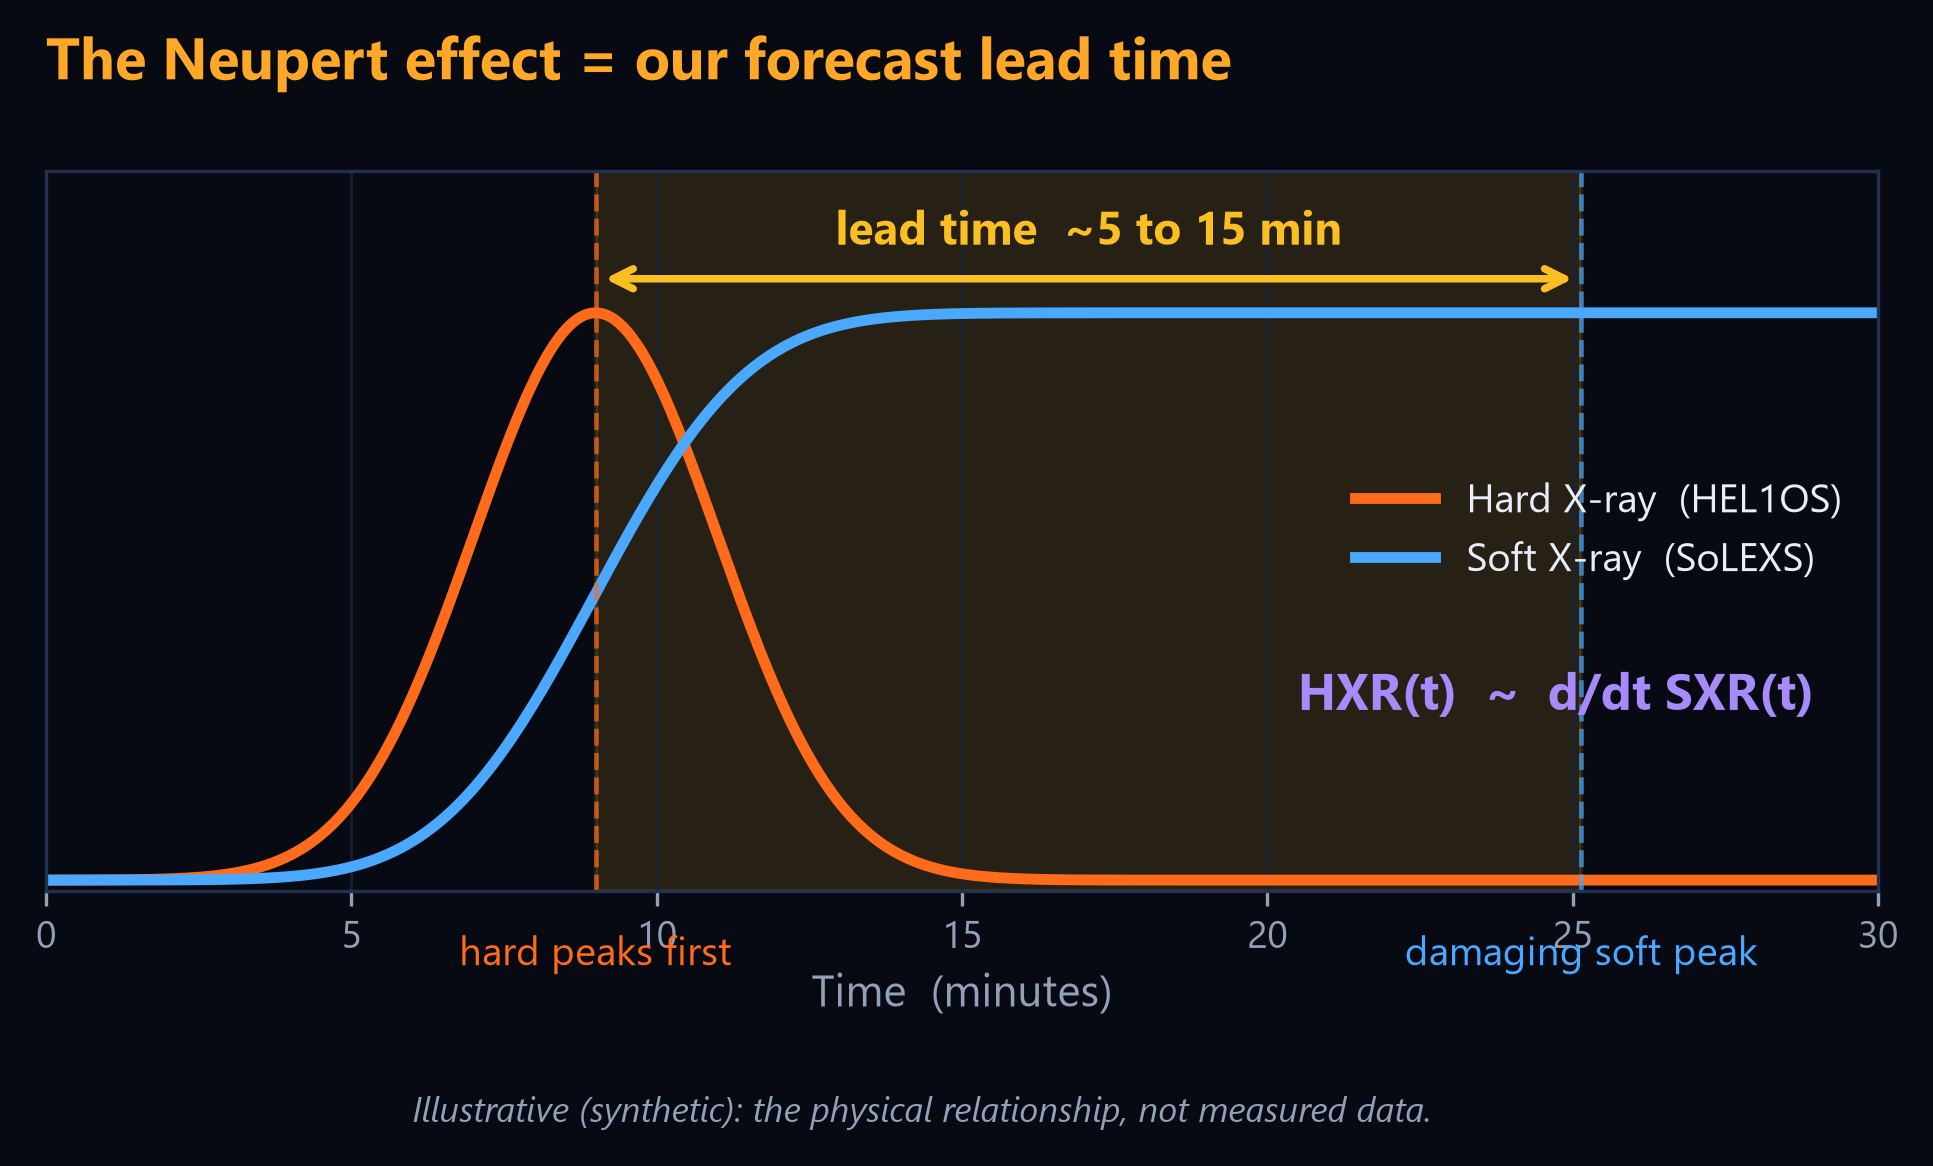
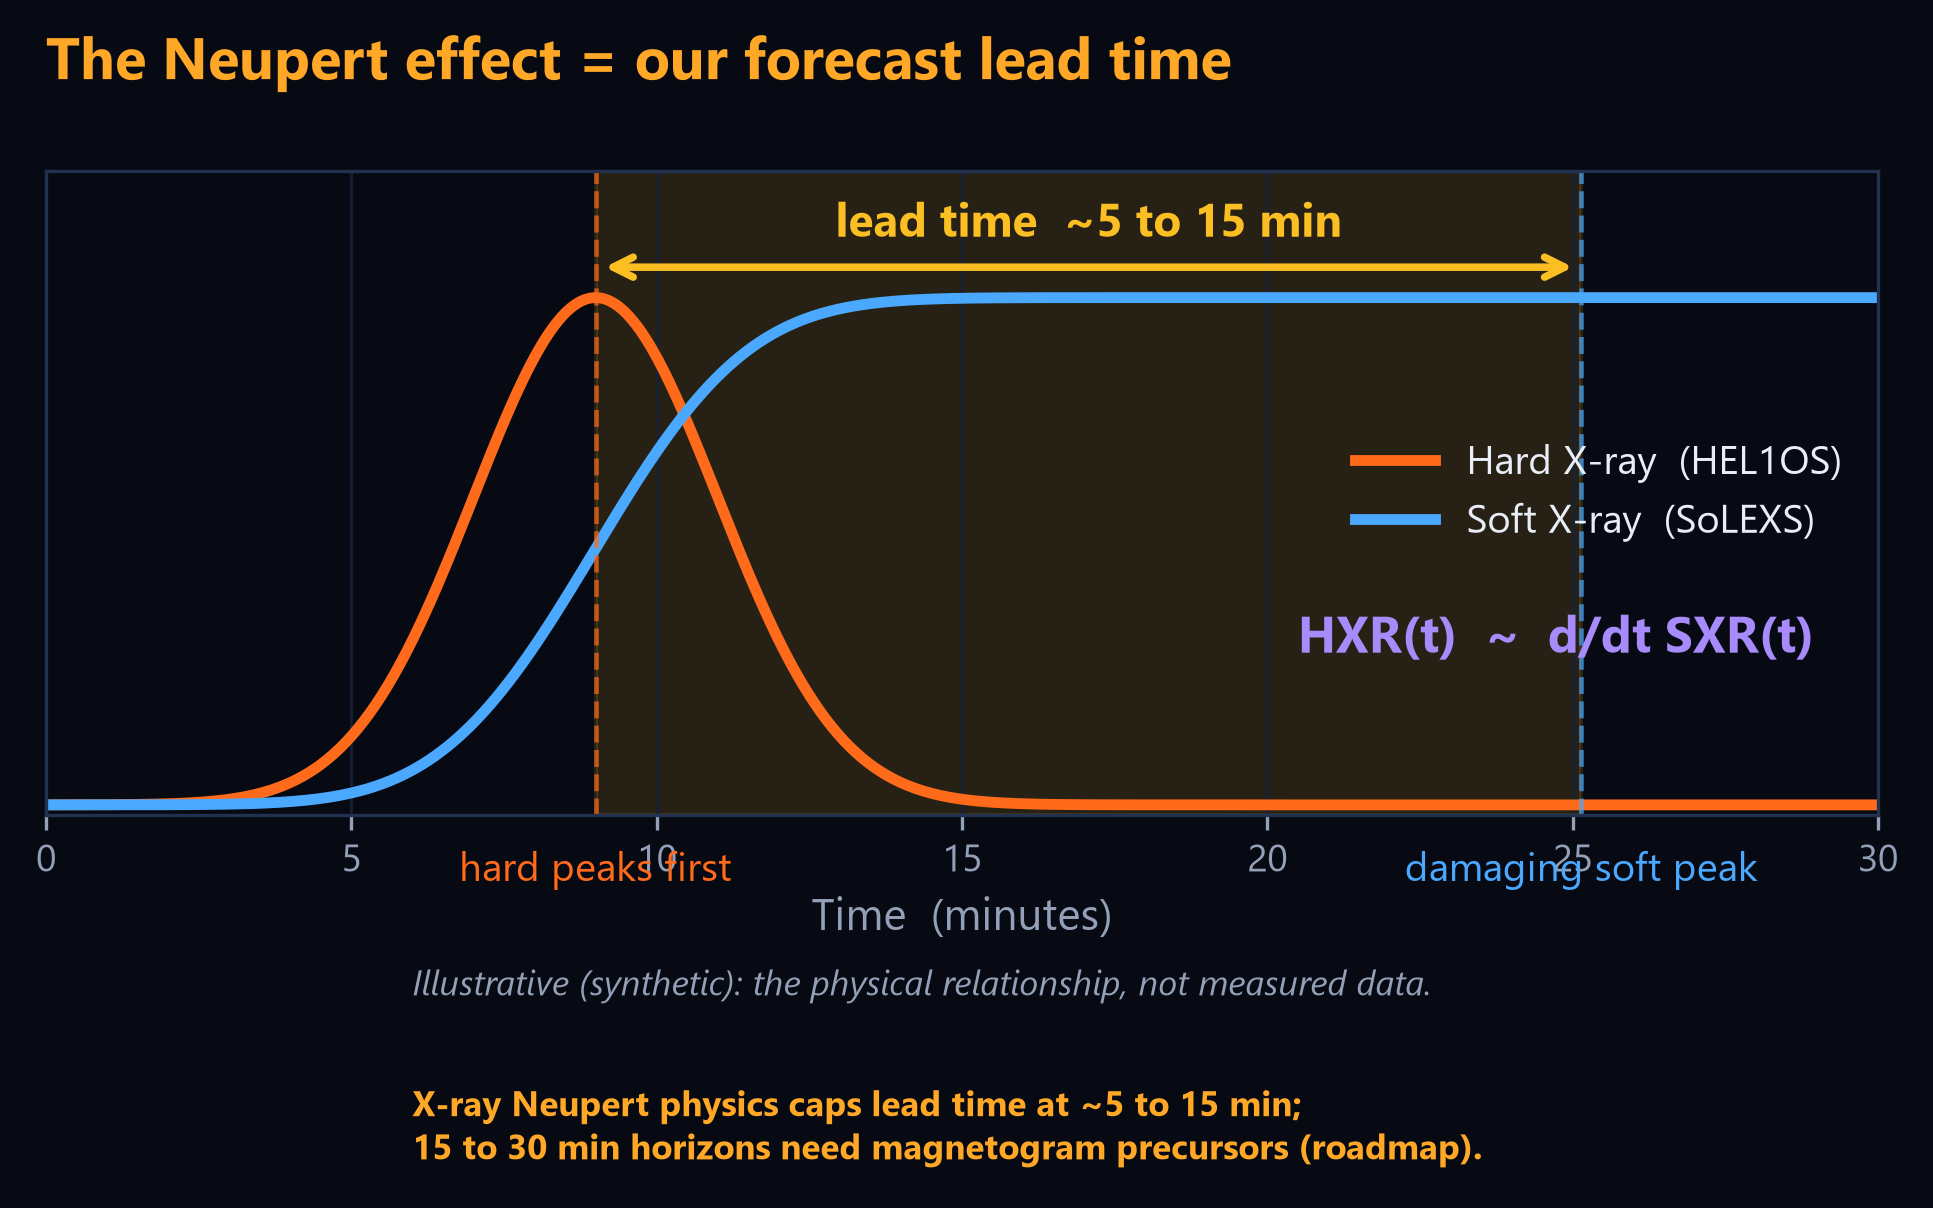
Reconcile lead-time gap: presenter said 15-30 min, deck shows honest X-ray ceiling
Context: ISRO PS-15 briefing stated forecasting target as 15-30 min lead time.
SuryaSetu's deck showed ~5-15 min (Neupert figure) and ~7 min (wireframe),
which is the honest X-ray Neupert physics ceiling, but read low against the
stated target. This reconciles without inflating numbers.

Changes:
- Neupert figure (slide 3): add caption stating X-ray Neupert physics caps
  lead time at ~5 to 15 min; 15-30 min horizons need magnetogram precursors
  (roadmap extension, presenter-permitted).
- Dashboard wireframe (slide 6): add same reconciliation footnote.
- build_diagrams.py: updated neupert() canvas height and both figure captions
  to accommodate the two-line reconciliation line cleanly.
- patch_leadtime_images.py: new surgical in-place image-swap utility that
  swaps only the target PNGs inside the live .pptx while preserving all
  manual PowerPoint edits and text intact (verified: 116 text items unchanged).
- heliograph/Neupert.tsx: additive callout (kind=warn) in the "Two horizons"
  section, names ISRO's 15-30 min target, states the honest 5-15 min X-ray
  ceiling, frames magnetogram path as roadmap extension. Nothing removed.

No destruction, no removal, no rebuild of the deck from scratch.

diff --git a/heliograph/src/pages/chapters/Neupert.tsx b/heliograph/src/pages/chapters/Neupert.tsx
@@ -70,6 +70,18 @@ export default function Neupert() {
         </div>
       </div>
 
+      <Callout kind="warn" title="Reconciling with ISRO's 15-30 min forecast target">
+        The PS-15 briefing frames the forecasting goal as roughly <strong>15-30 minutes</strong> of lead time.
+        We are deliberate about what each signal earns: <strong>X-ray Neupert physics caps reliable lead time at
+        about 5-15 minutes</strong> — that is the genuine head start between the hard-X-ray impulse and the
+        damaging soft-X-ray peak, and it is the number we report rather than inflate. Pushing the horizon out
+        toward 15-30 minutes means forecasting <em>before</em> the X-ray rise at all, which physically requires
+        <strong> magnetic-field / magnetogram precursors</strong> (active-region complexity, flux emergence) — a
+        path the briefing explicitly permits. We carry it as a <strong>roadmap extension</strong>: the X-ray
+        system ships the honest 5-15 min warning today, and the magnetogram channel is the principled way to
+        reach the longer horizon without over-claiming.
+      </Callout>
+
       <Callout kind="deep" title="From physics to features">
         The Neupert effect tells us precisely which quantities our forecasting model should compute: not just the
         raw soft and hard counts, but the <strong>hard/soft ratio</strong>, the <strong>rate of change</strong> of

diff --git a/patch_leadtime_images.py b/patch_leadtime_images.py
@@ -1,0 +1,61 @@
+# -*- coding: utf-8 -*-
+"""Surgically swap ONLY the two lead-time figures (neupert.png on slide 3,
+dashboard.png on slide 6) inside the already-built deck, in place.
+
+Why this exists: the live .pptx contains manual PowerPoint edits that are NOT
+in build_deck.py, so re-running the full build would destroy them. This script
+opens the existing deck, finds each target picture by its on-slide position,
+overwrites just that image part's bytes, and saves. No text, layout, or other
+shape is touched.
+"""
+import os
+from pptx import Presentation
+from pptx.util import Inches
+from pptx.enum.shapes import MSO_SHAPE_TYPE
+
+OUT = "SuryaSetu - ISRO BAH 2026 - PS15 - Idea Submission.pptx"
+A = "render_assets"
+
+# (slide index, new png, expected left/top in inches as placed by build_deck.py)
+TARGETS = [
+    (2, "neupert.png",   5.709, 3.179),  # slide 3, lower-right figure
+    (5, "dashboard.png", 0.197, 1.160),  # slide 6, large left wireframe
+]
+TOL_EMU = Inches(1.0)  # allow up to 1in of manual nudging before we refuse
+
+
+def pictures(slide):
+    return [s for s in slide.shapes if s.shape_type == MSO_SHAPE_TYPE.PICTURE]
+
+
+def swap(slide, png, exp_left, exp_top):
+    tl, tt = Inches(exp_left), Inches(exp_top)
+    pics = pictures(slide)
+    if not pics:
+        raise RuntimeError(f"no pictures on slide for {png}")
+    best = min(pics, key=lambda s: (s.left - tl) ** 2 + (s.top - tt) ** 2)
+    dist = ((best.left - tl) ** 2 + (best.top - tt) ** 2) ** 0.5
+    if dist > TOL_EMU:
+        raise RuntimeError(
+            f"closest picture for {png} is {dist/914400:.2f}in from expected "
+            f"position - refusing (image may have been moved manually).")
+    rId = best._element.blip_rId
+    image_part = best.part.related_part(rId)
+    with open(os.path.join(A, png), "rb") as f:
+        image_part._blob = f.read()
+    print(f"swapped {png}: matched picture at "
+          f"({best.left/914400:.3f}in, {best.top/914400:.3f}in), "
+          f"offset {dist/914400:.3f}in, "
+          f"size {best.width/914400:.3f}x{best.height/914400:.3f}in")
+
+
+def main():
+    prs = Presentation(OUT)
+    for idx, png, l, t in TARGETS:
+        swap(prs.slides[idx], png, l, t)
+    prs.save(OUT)
+    print("SAVED:", OUT)
+
+
+if __name__ == "__main__":
+    main()

diff --git a/build_diagrams.py b/build_diagrams.py
@@ -35,7 +35,7 @@ def xray_spectrum():
 
 # ============================================================ 2 - NEUPERT LEAD-TIME
 def neupert():
-    fig, ax = chart_fig(6.6, 4.3)
+    fig, ax = chart_fig(6.6, 4.8)
     t = np.linspace(0, 30, 600)
     hard = np.exp(-((t-9)**2)/8.0)
     soft = np.cumsum(hard); soft = soft/soft.max()
@@ -59,8 +59,11 @@ def neupert():
     ax.set_title("The Neupert effect = our forecast lead time", color=ACCENT2,
                  fontsize=14, fontweight="bold", pad=22, loc="left")
     ax.legend(loc="center right", fontsize=9.5, frameon=False, labelcolor=INK)
-    ax.text(0.2, -0.32, "Illustrative (synthetic): the physical relationship, not measured data.",
+    ax.text(0.2, -0.28, "Illustrative (synthetic): the physical relationship, not measured data.",
             transform=ax.transAxes, color=MUTED, fontsize=8.5, style="italic")
+    ax.text(0.2, -0.42, "X-ray Neupert physics caps lead time at ~5 to 15 min;\n15 to 30 min horizons need magnetogram precursors (roadmap).",
+            transform=ax.transAxes, color=ACCENT2, fontsize=8.5, fontweight="bold", linespacing=1.3,
+            va="top")
     fig.tight_layout()
     fig.savefig(out("neupert.png"), facecolor=BG, bbox_inches="tight", pad_inches=0.12)
     print("wrote neupert.png")
@@ -252,6 +255,8 @@ def dashboard():
         for x,v in zip(xs, r):
             ax.text(x, yy, v, color=MUTED, fontsize=8.6, family=MONO)
         ax.add_line(Line2D([6,94],[yy-2.6,yy-2.6], color=LINE, lw=0.6))
+    ax.text(50, 2.0, "Lead time = X-ray Neupert ceiling (~5 to 15 min); 15 to 30 min horizons need magnetogram precursors (roadmap).",
+            ha="center", va="center", color=MUTED, fontsize=7.0, style="italic")
     save(fig, out("dashboard.png"))
 
 # ============================================================ 9 - ARCHITECTURE